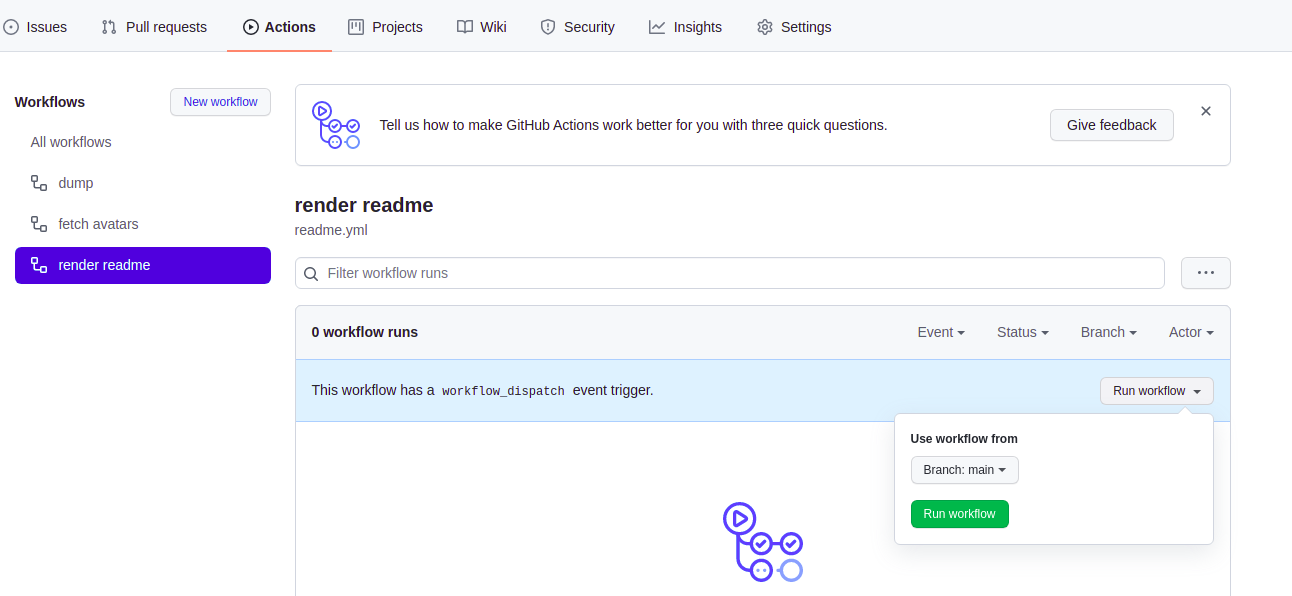
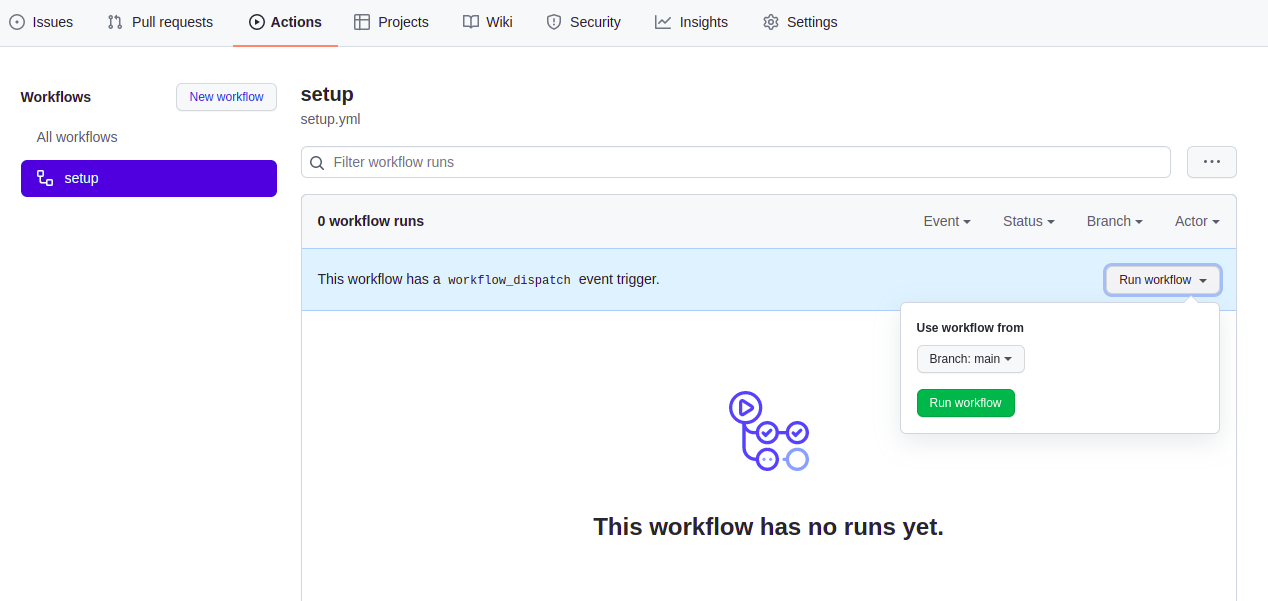
update walkthrough images

diff --git a/README.md b/README.md
@@ -22,11 +22,14 @@ All you need to do is use this template to generate your own repository, and the
 
    ![actions tab](./assets/actions-tab.png)
 
-5. In the Workflows section, select "setup", and press the "run workflow" button, selecting the "main" branch to run the action
+5. In the Workflows section, select "setup", and press the "Run workflow" button, selecting the "main" branch to run the action
 
    ![running the workflow to set up the repo](./assets/run-the-action.png)
 
-6. The GitHub action will run and set up your project board, so you can view it to decide what to study first! Once you select the first activity, move the card to DOING column. When you're all finished, move it to DONE. When everything is in DONE, you've completed the learning space.
+6. You can see this new Project board by clicking on Projects, and then selecting the one that's got a "1" next to it (ie, not the Beta Projects that is currently also shown by default).
 
-   ![the generated learning board](./assets/your-learning-board.png)
+   ![the projects view](./assets/your-learning-board.png)
 
+7. The GitHub action will run and set up your project board, so you can view it to decide what to study first! You can click on the individual cards to see the full description. Once you select the first activity, move the card to DOING column. When you're all finished, move it to DONE. When everything is in DONE, you've completed the learning space.
+
+   ![the generated learning board](./assets/your-learning-board-columns.png)
